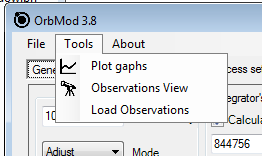
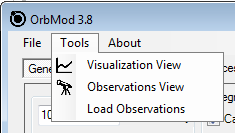
screenshosts added

diff --git a/src/FormMain.Designer.cs b/src/FormMain.Designer.cs
@@ -1101,7 +1101,7 @@
             this.tsmi_Plot.Image = global::OrbModUI.Properties.Resources.line_graph_128px_1170483_easyicon_net;
             this.tsmi_Plot.Name = "tsmi_Plot";
             this.tsmi_Plot.Size = new System.Drawing.Size(172, 22);
-            this.tsmi_Plot.Text = "Plot gaphs";
+            this.tsmi_Plot.Text = "Visualization View";
             this.tsmi_Plot.Click += new System.EventHandler(this.tsmi_Plot_Click);
             // 
             // tsmi_ObsView
